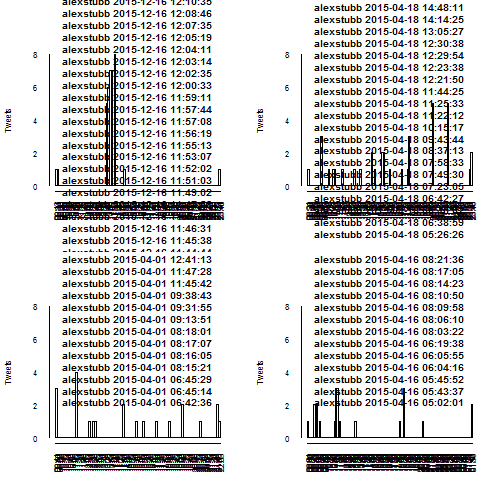
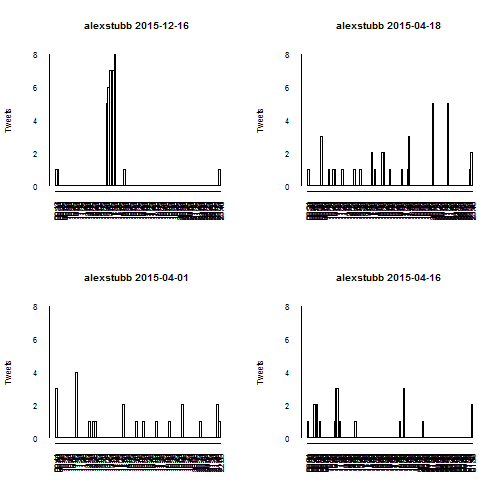
update README

Changed region(s): [[0.119, 0.0, 0.4167, 0.8036], [0.625, 0.0, 0.9226, 0.4762], [0.625, 0.506, 0.9226, 0.8036]]

diff --git a/README.md b/README.md
@@ -100,7 +100,7 @@ for(i in 1:4){
   time <- topdaydata[[i]]$created
   hist(time, breaks=100,freq=T,border=NULL,ylab="Tweets",
        tck=0,cex.axis=0.8, cex.lab=0.8, xlab="",
-       main=paste0(tweeter," ",time),
+       main=paste0(tweeter," ",top5days[i]),
        cex.main=1, ylim=c(0,8), las = 2)
 }
 ```
